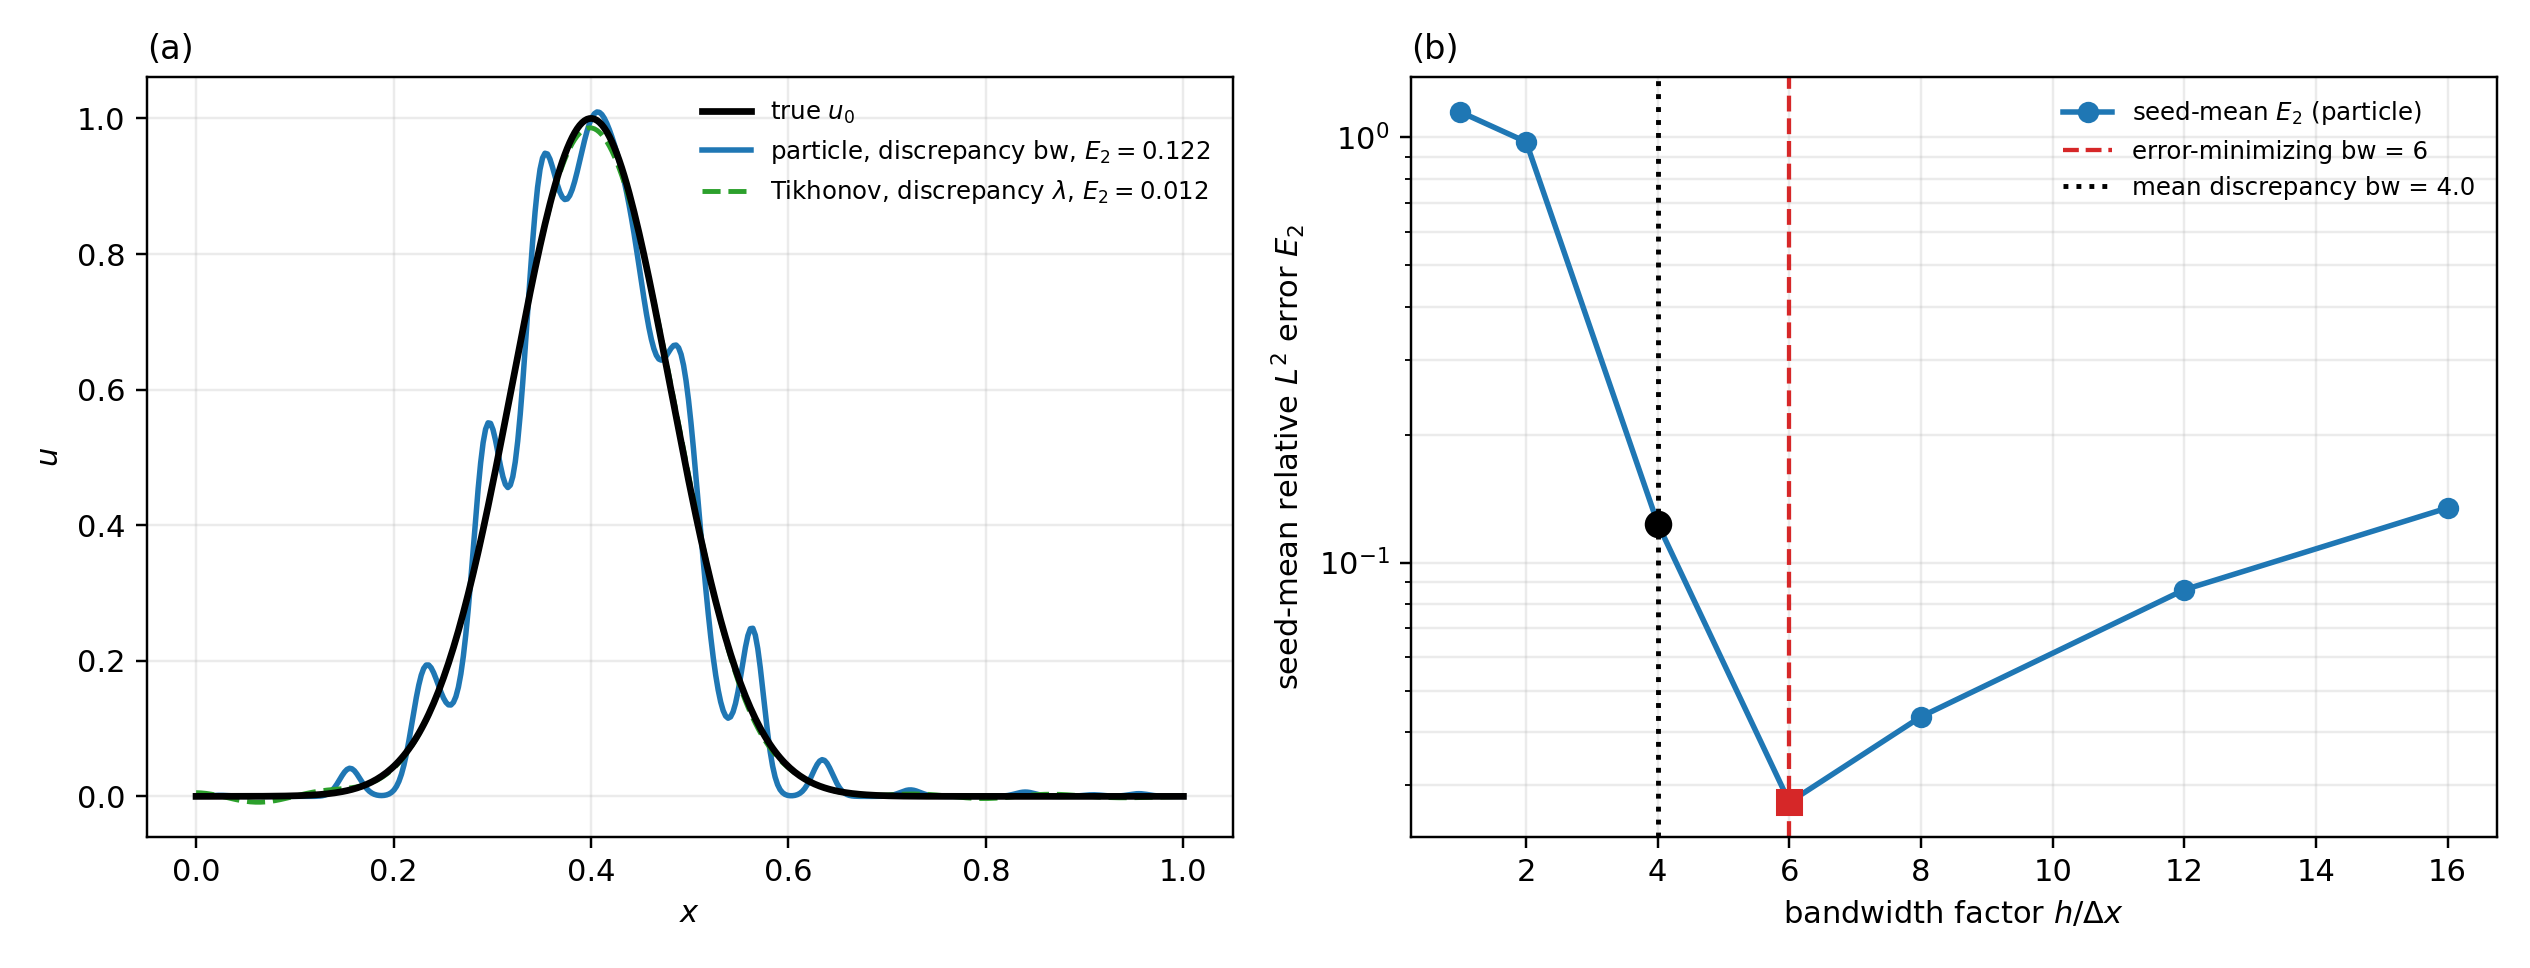
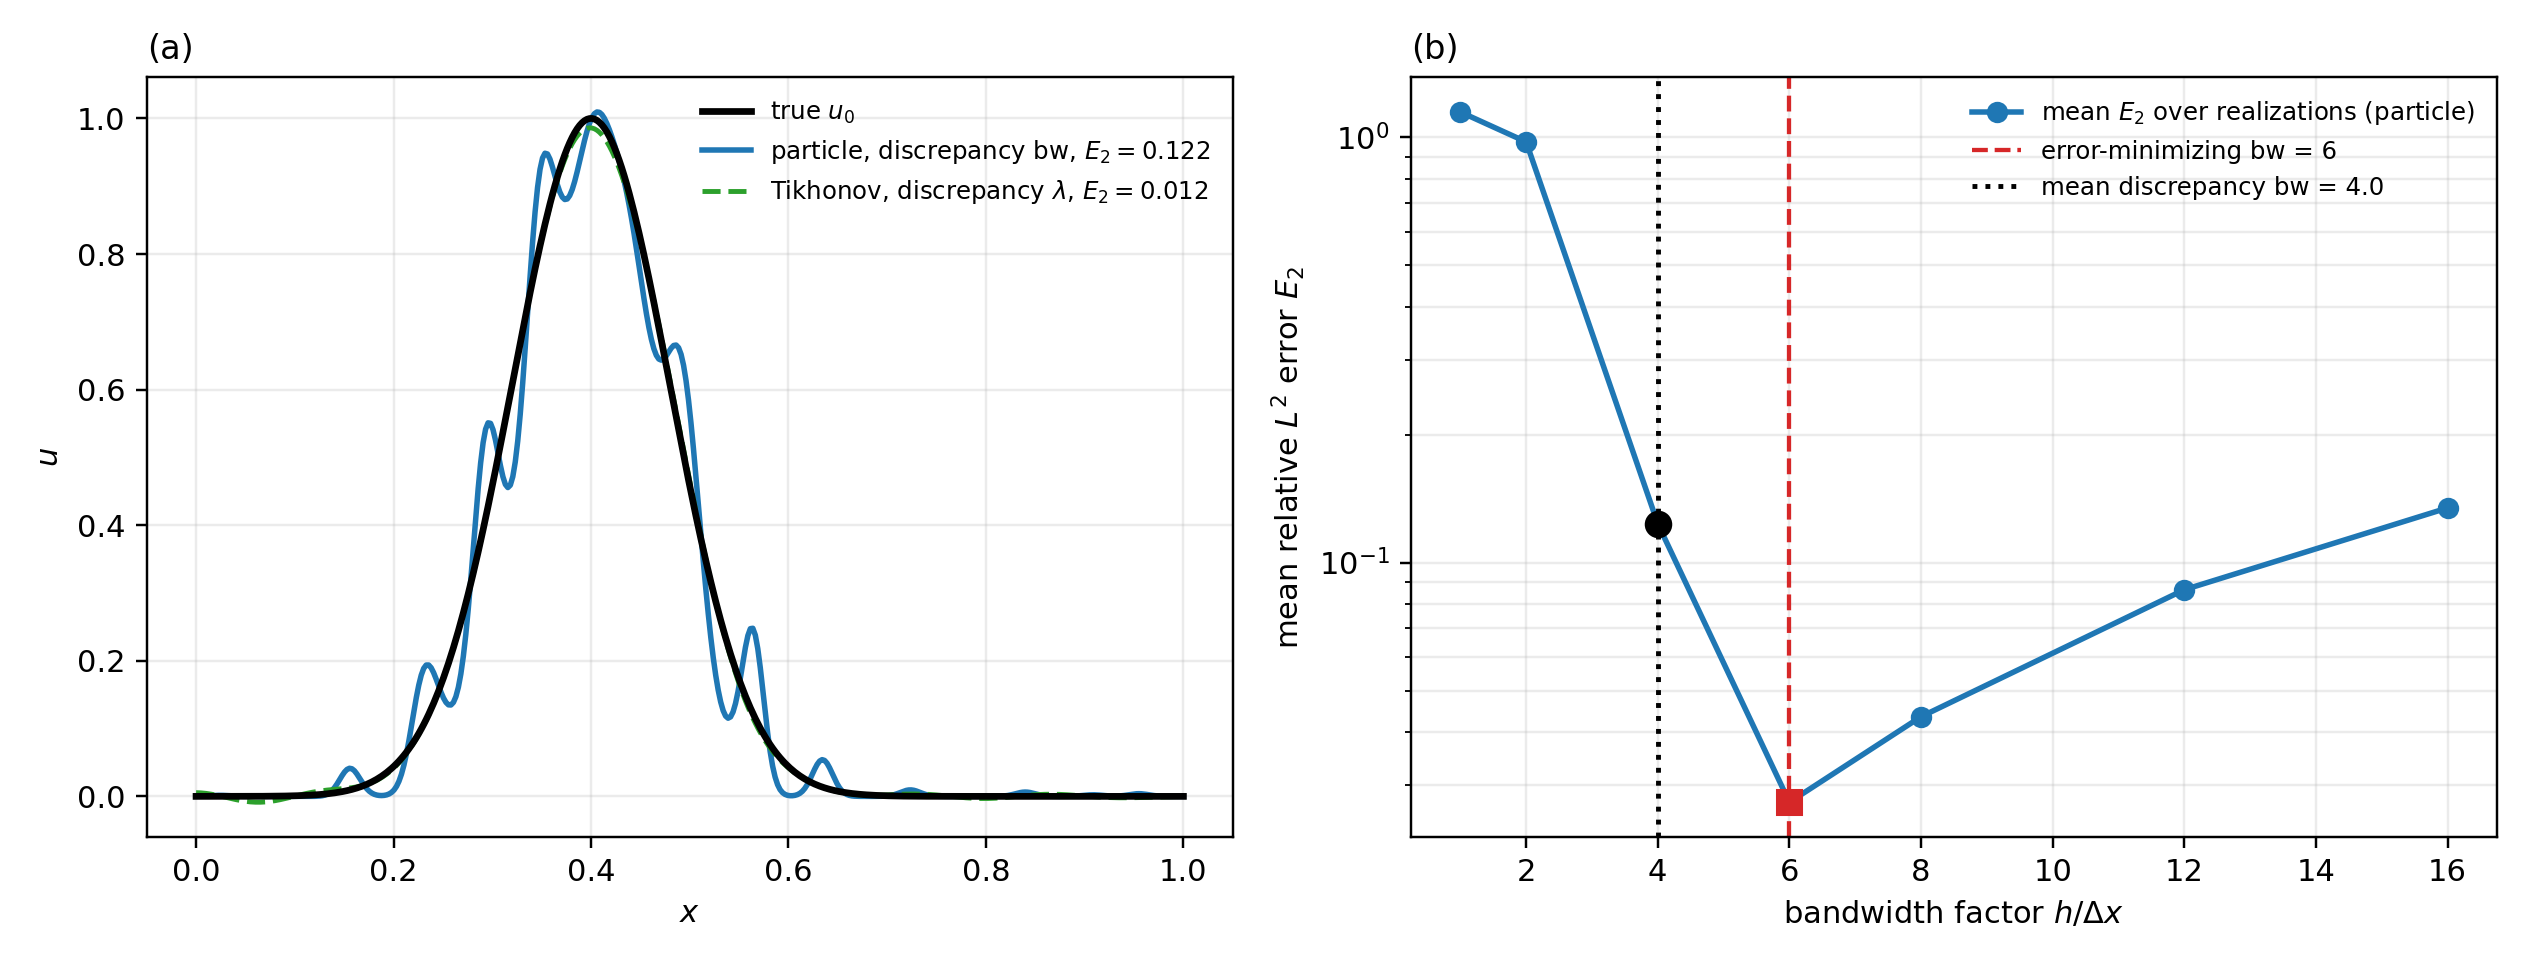
Fix discrepancy figure labels

diff --git a/make_discrepancy_figure.py b/make_discrepancy_figure.py
@@ -58,7 +58,8 @@ def main():
     # ---- panel (b): seed-mean E2 vs bandwidth, with chosen vs optimal marked ----
     bw = a["bw_factors"]; e2 = a["bw_E2_mean"]
     f_disc = float(a["f_disc_mean"]); f_min = float(a["f_min_mean"])
-    axB.plot(bw, e2, "o-", color="tab:blue", lw=1.8, label="seed-mean $E_2$ (particle)")
+    axB.plot(bw, e2, "o-", color="tab:blue", lw=1.8,
+             label="mean $E_2$ over realizations (particle)")
     # interpolate curve value at the mean discrepancy bw for the marker
     e2_at_disc = float(np.interp(f_disc, bw, e2))
     e2_at_min = float(np.interp(f_min, bw, e2))
@@ -70,7 +71,7 @@ def main():
     axB.plot([f_disc], [e2_at_disc], "o", color="black", ms=8, zorder=6)
     axB.set_yscale("log")
     axB.set_xlabel(r"bandwidth factor $h/\Delta x$")
-    axB.set_ylabel(r"seed-mean relative $L^2$ error $E_2$")
+    axB.set_ylabel(r"mean relative $L^2$ error $E_2$")
     axB.set_title("(b)", loc="left")
     axB.grid(True, which="both", alpha=0.25)
     axB.legend(frameon=False)
